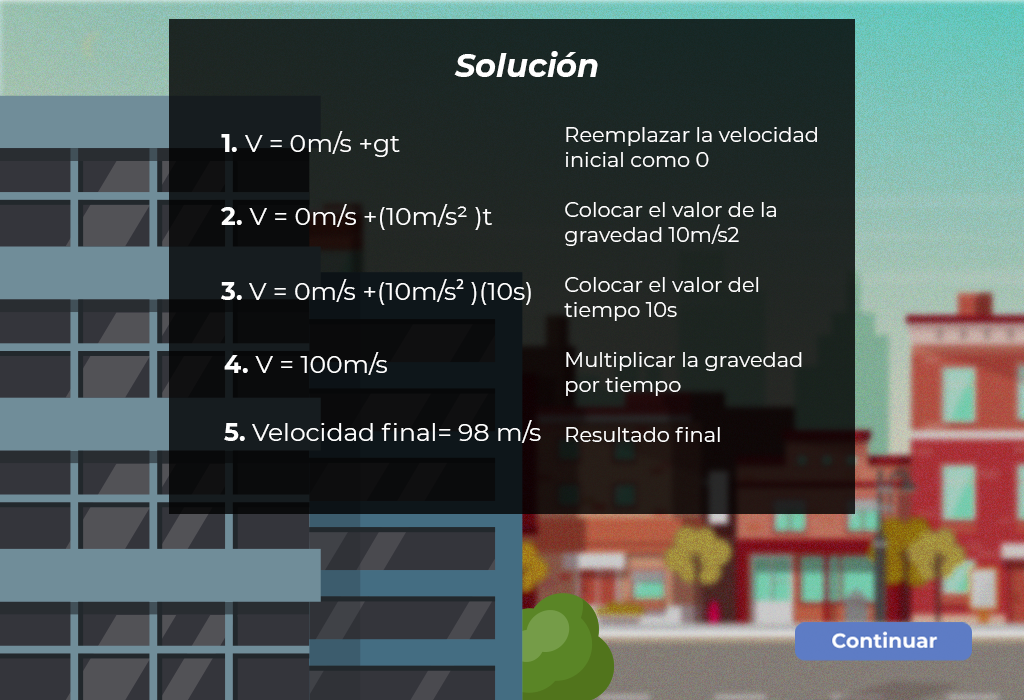
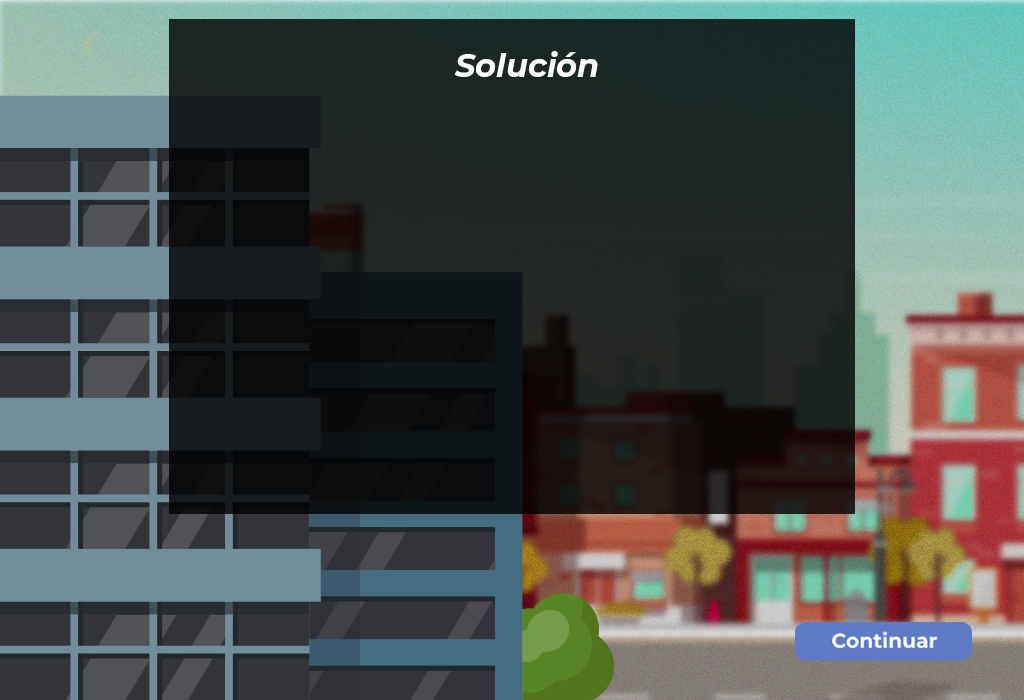
Added transitions

diff --git a/scripts/Main.js b/scripts/Main.js
@@ -2,6 +2,7 @@ let logic;
 let prevScreen;
 let currentScreen;
 let currentInstructScreen;
+let currentTutorialFfScreen;
 let currentUser;
 let userTime;
 let timer;
@@ -34,12 +35,18 @@ let animationArray;
 let screenlevelone1;
 let screenlevelone2;
 let screenlevelone3;
+let freefallpng1;
+let freefallpng2;
+let freefallpng3;
+let freefallpng4;
+let freefallpng5;
 
 // Tutorial animacion parabolico
 let screentutorialparabolic1;
 let screentutorialparabolic2;
 let screentutorialparabolic3;
 
+// Instrucciones
 let screeninstruction1;
 let screeninstruction2;
 let screeninstruction3;
@@ -113,13 +120,20 @@ function preload() {
     // Tutorial caida libre
     //screenlevelone1 = loadImage("../src/img/tutorialcaidalibre.jpg");
     //screenlevelone2 = loadImage("../src/img/tutorialcaidalibre2.jpg");
-    screenlevelone3 = loadImage("./src/img/tutocaidalibre3.png")
+    screenlevelone3 = loadImage("./src/img/tutocaidalibre3.png");
+
+    freefallpng1 = loadImage("./src/img/caidalibrepng1.png");
+    freefallpng2 = loadImage("./src/img/caidalibrepng2.png");
+    freefallpng3 = loadImage("./src/img/caidalibrepng3.png");
+    freefallpng4 = loadImage("./src/img/caidalibrepng4.png");
+    freefallpng5 = loadImage("./src/img/caidalibrepng5.png");
 
     // Tutorial movmiento parabolico
     //screentutorialparabolic1 = loadImage("./src/img/tutorialparabolico1.jpg");
     //screentutorialparabolic2 = loadImage("./src/img/tutorialparabolico2.jpg");
     screentutorialparabolic3 = loadImage("./src/img/tutorialparabolico3.jpg");
 
+    // Instrucciones
     screeninstruction1 = loadImage("./src/img/parabolicoinstrucciones1.jpg");
     screeninstruction2 = loadImage("./src/img/parabolicoinstrucciones2.jpg");
     screeninstruction3 = loadImage("./src/img/parabolicoinstrucciones3.jpg");
@@ -153,7 +167,10 @@ function setup() {
     trail = [];
     prevScreen = 0;
     currentScreen = -1;
+
     currentInstructScreen = 0;
+    currentTutorialFfScreen = 0;
+
     totalfireOver = 0;
     completedLevels = 0;
     isBlocked = true;
@@ -247,9 +264,42 @@ function draw() {
     switch (currentScreen) {
         case -9:
             // Tutorial caida libre 3
+            //currentTutorialFfScreen = 4;
             animationArray[0].style.display = "none";
             animationArray[1].style.display = "none";
             image(screenlevelone3, 0, 0);
+
+            switch (currentTutorialFfScreen) {
+                case 0:
+                    image(freefallpng1, 206, 126);
+                    break;
+
+                case 1:
+                    image(freefallpng1, 206, 126);
+                    image(freefallpng2, 206, 206);
+                    break;
+
+                case 2:
+                    image(freefallpng1, 206, 126);
+                    image(freefallpng2, 206, 206);
+                    image(freefallpng3, 206, 286);
+                    break;
+
+                case 3:
+                    image(freefallpng1, 206, 126);
+                    image(freefallpng2, 206, 206);
+                    image(freefallpng3, 206, 286);
+                    image(freefallpng4, 206, 366);
+                    break;
+
+                case 4:
+                    image(freefallpng1, 206, 126);
+                    image(freefallpng2, 206, 206);
+                    image(freefallpng3, 206, 286);
+                    image(freefallpng4, 206, 366);
+                    image(freefallpng5, 206, 426);
+                    break;
+            }
 
             if (mouseX >= 797 && mouseX <= 797 + 175 && mouseY >= 623 && mouseY <= 623 + 37.47) {
                 cursor(HAND);
@@ -494,6 +544,7 @@ function draw() {
             }
             break;
         case 4:
+            // Tutorial parabolico 3
             image(screentutorialparabolic3, 0, 0);
             animationArray[0].style.display = "none";
             animationArray[1].style.display = "none";
@@ -1437,8 +1488,6 @@ function draw() {
             }
             break;
     }
-
-    console.log(timer.seconds)
 }
 
 function mousePressed() {
@@ -1448,23 +1497,54 @@ function mousePressed() {
     console.log("Y: " + (this.water04.posY - this.water04.initialY) / 100)*/
     switch (currentScreen) {
         case -9:
-            if (mouseX >= 797 && mouseX <= 797 + 175 && mouseY >= 623 && mouseY <= 623 + 37.47 && completedLevels < 1) {
-                completedLevels = 1;
-                isBlocked = false;
-                userRef.doc(currentUser.id).update({
-                    completedLevels: 1,
-                    freefallScore: 50,
-                    totalScore: 50
+            switch (currentTutorialFfScreen) {
+                case 0:
+                    if (mouseX >= 797 && mouseX <= 797 + 175 && mouseY >= 623 && mouseY <= 623 + 37.47) {
+                        currentTutorialFfScreen = 1;
+                    }
+                    break;
 
-                }).then(function () {
-                    completedLevels = 1;
-                    currentScreen = 17;
-                    console.log("Actualizado");
-                    currentUser.freefallScore = 50;
-                });
-            } else if (mouseX >= 797 && mouseX <= 797 + 175 && mouseY >= 623 && mouseY <= 623 + 37.47 && completedLevels >= 1) {
-                currentScreen = 17;
-                console.log("Otra vez");
+                case 1:
+                    if (mouseX >= 797 && mouseX <= 797 + 175 && mouseY >= 623 && mouseY <= 623 + 37.47) {
+                        currentTutorialFfScreen = 2;
+                    }
+                    break;
+
+                case 2:
+                    if (mouseX >= 797 && mouseX <= 797 + 175 && mouseY >= 623 && mouseY <= 623 + 37.47) {
+                        currentTutorialFfScreen = 3;
+                    }
+                    break;
+
+                case 3:
+                    if (mouseX >= 797 && mouseX <= 797 + 175 && mouseY >= 623 && mouseY <= 623 + 37.47) {
+                        currentTutorialFfScreen = 4;
+                    }
+                    break;
+
+                case 4:
+                    //currentTutorialFfScreen
+                    if (mouseX >= 797 && mouseX <= 797 + 175 && mouseY >= 623 && mouseY <= 623 + 37.47 && completedLevels < 1) {
+                        completedLevels = 1;
+                        isBlocked = false;
+                        userRef.doc(currentUser.id).update({
+                            completedLevels: 1,
+                            freefallScore: 50,
+                            totalScore: 50
+
+                        }).then(function () {
+                            currentTutorialFfScreen = 0;
+                            completedLevels = 1;
+                            currentScreen = 17;
+                            console.log("Actualizado");
+                            currentUser.freefallScore = 50;
+                        });
+                    } else if (mouseX >= 797 && mouseX <= 797 + 175 && mouseY >= 623 && mouseY <= 623 + 37.47 && completedLevels >= 1) {
+                        currentTutorialFfScreen = 0;
+                        currentScreen = 17;
+                        console.log("Otra vez");
+                    }
+                    break;
             }
             break;
 
@@ -1524,14 +1604,6 @@ function mousePressed() {
                         currentScreen = -6;
                     }
                     break;
-
-                /*case 5:
-                    // Instruccion movimiento parabolico 6
-                    // Cursor
-                    if (mouseX >= 760 && mouseX <= 760 + 175 && mouseY >= 612 && mouseY <= 612 + 37.46) {
-                        currentScreen = -6;
-                    }
-                    break;*/
             }
             break;
 
@@ -1643,16 +1715,19 @@ function mousePressed() {
             }
             break;
         case 2:
+            // Tutorial parabolico 1
             if (mouseX >= 797 && mouseX <= 797 + 175 && mouseY >= 623 && mouseY <= 623 + 37.46) {
                 currentScreen = 3;
             }
             break;
         case 3:
+             // Tutorial parabolico 1
             if (mouseX >= 797 && mouseX <= 797 + 175 && mouseY >= 623 && mouseY <= 623 + 37.46) {
                 currentScreen = 4;
             }
             break;
         case 4:
+             // Tutorial parabolico 1
             if (mouseX >= 797 && mouseX <= 797 + 175 && mouseY >= 623 && mouseY <= 623 + 37.46 && completedLevels < 2) {
                 score.value += 52;
                 currentScreen = -4;
@@ -1895,7 +1970,6 @@ function mousePressed() {
             break;
     }
 }
-
 
 function calculateFinalTime() {
 
